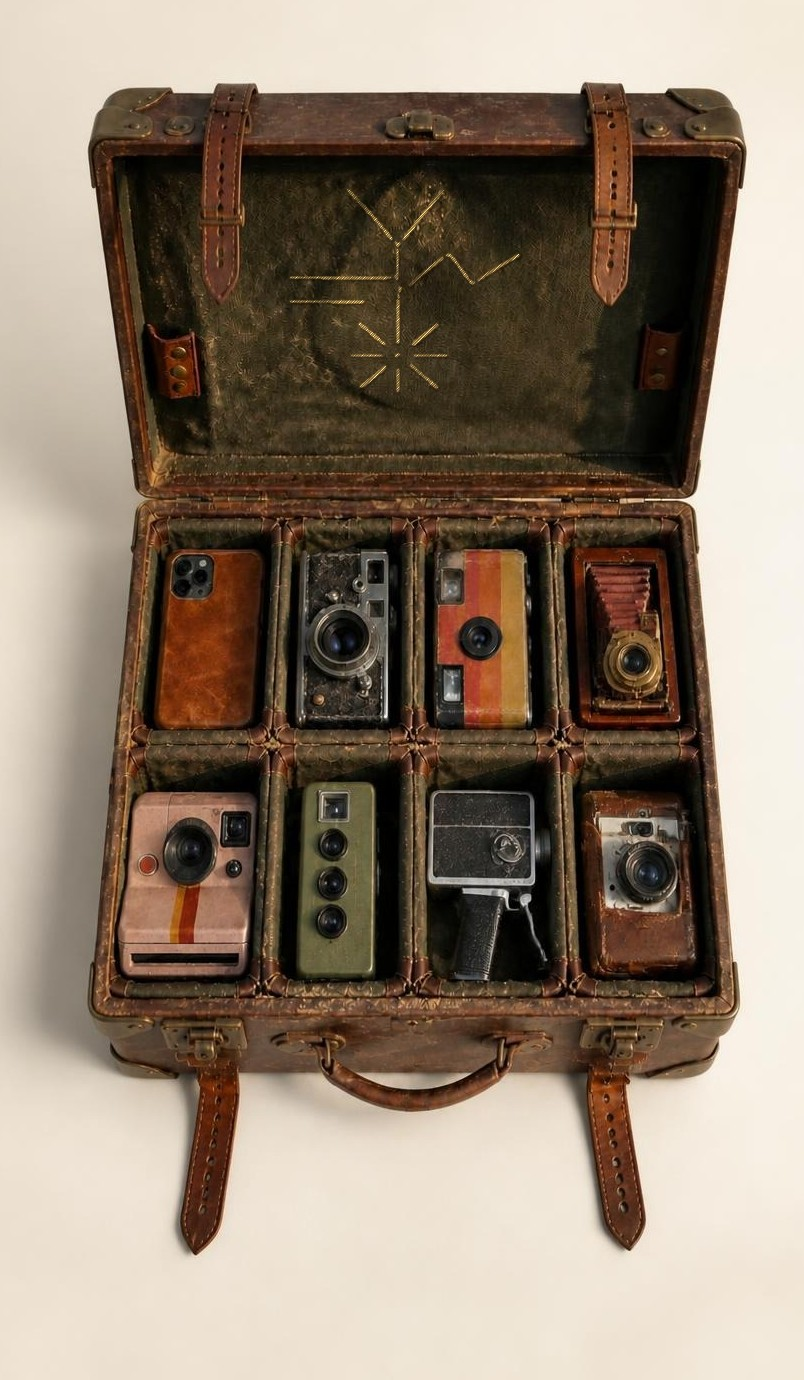
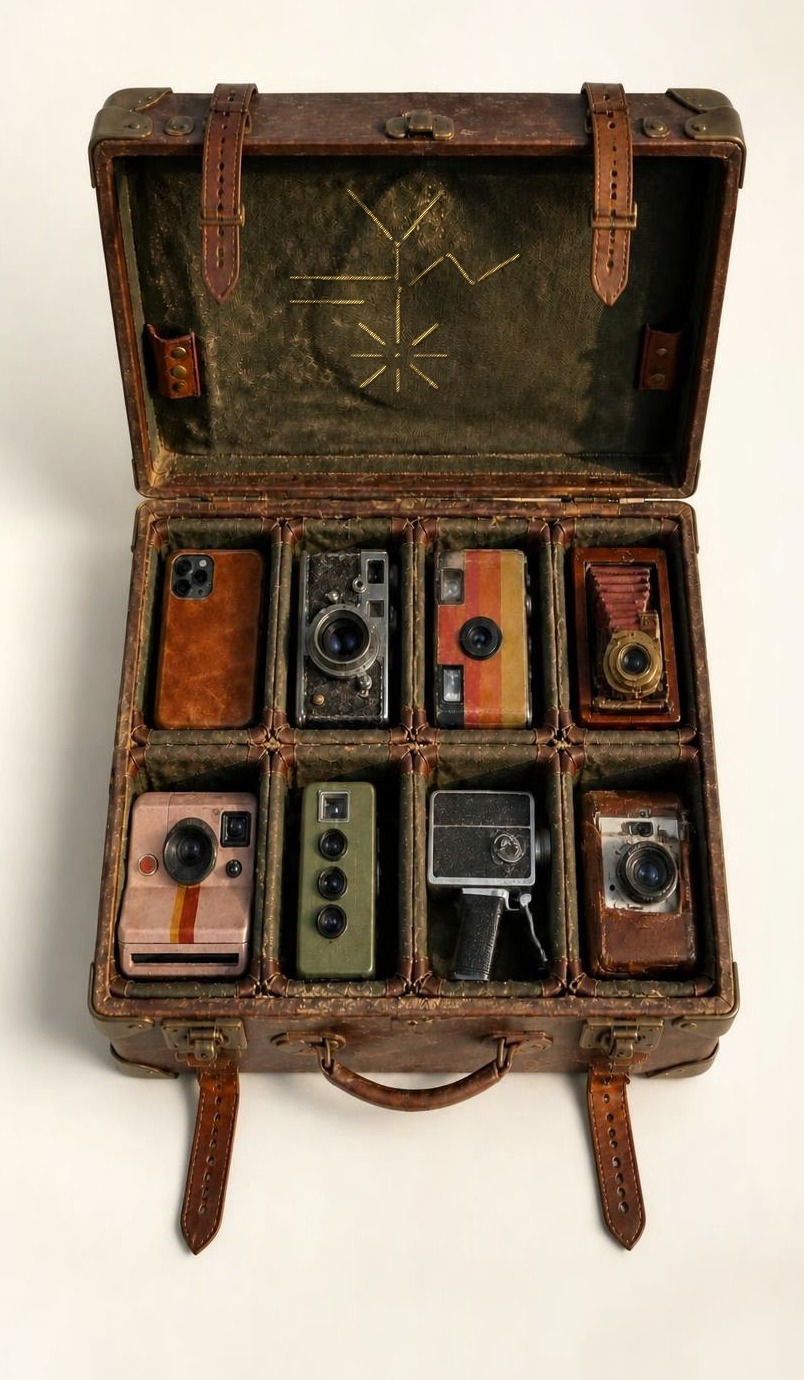
Maleta e carteira: fundo da foto igualado ao fundo do app e bordas que somem, sem cartão
Claude-Session: https://claude.ai/code/session_019kqAkVGodtTPLnZ4JhFLF3

Changed region(s): [[0.0, 0.0, 0.1866, 0.2804], [0.0, 0.3116, 0.0622, 0.6232], [0.0, 0.7478, 0.0622, 1.0]]

diff --git a/app/index.html b/app/index.html
@@ -7,7 +7,7 @@
 <link rel="icon" href="img/icone-192.png">
 <link rel="apple-touch-icon" href="img/icone-192.png">
 <link rel="manifest" href="manifest.webmanifest">
-<script>window.__VERSAO = "10/10 · 11:34";</script>
+<script>window.__VERSAO = "10/10 · 11:35";</script>
 <script src="config.js"></script>
 <script src="shim.js"></script>
 <style>*,*::before,*::after{box-sizing:border-box}html,body{margin:0;height:100%}</style>
@@ -897,7 +897,9 @@ nav.tabs button[aria-current="page"] .ic{background:linear-gradient(180deg,#E2BE
 @keyframes flashcam{from{opacity:.95}to{opacity:0}}
 .diario{margin-top:22px;display:flex;flex-direction:column;gap:10px}
 /* maleta e carteira como fotos de verdade, num cartão com fundo pastel, sem recorte */
-.malafoto.foto,.carteira.foto{border-radius:18px;overflow:hidden;box-shadow:0 10px 24px rgba(60,40,20,.18),0 1px 0 rgba(255,255,255,.6) inset;background:#EADFCD}
+/* o fundo das fotos foi igualado ao fundo do app: sem cartão, sem borda */
+.malafoto.foto,.carteira.foto{border-radius:0;overflow:visible;box-shadow:none;background:none}
+.malafoto.foto .estantefundo,.carteira.foto .cfundo{-webkit-mask-image:linear-gradient(90deg,transparent,#000 9%,#000 91%,transparent),linear-gradient(180deg,transparent,#000 7%,#000 93%,transparent);-webkit-mask-composite:source-in;mask-image:linear-gradient(90deg,transparent,#000 9%,#000 91%,transparent),linear-gradient(180deg,transparent,#000 7%,#000 93%,transparent);mask-composite:intersect}
 .malafoto.foto{aspect-ratio:804/1380;max-width:400px}
 .carteira.foto{aspect-ratio:834/1085;max-width:400px}
 .malafoto.foto .estantefundo,.carteira.foto .cfundo{position:absolute;inset:0;width:100%;height:100%;object-fit:cover;filter:none!important;z-index:0}

diff --git a/app/caravana-do-ceu.html b/app/caravana-do-ceu.html
@@ -883,7 +883,9 @@ nav.tabs button[aria-current="page"] .ic{background:linear-gradient(180deg,#E2BE
 @keyframes flashcam{from{opacity:.95}to{opacity:0}}
 .diario{margin-top:22px;display:flex;flex-direction:column;gap:10px}
 /* maleta e carteira como fotos de verdade, num cartão com fundo pastel, sem recorte */
-.malafoto.foto,.carteira.foto{border-radius:18px;overflow:hidden;box-shadow:0 10px 24px rgba(60,40,20,.18),0 1px 0 rgba(255,255,255,.6) inset;background:#EADFCD}
+/* o fundo das fotos foi igualado ao fundo do app: sem cartão, sem borda */
+.malafoto.foto,.carteira.foto{border-radius:0;overflow:visible;box-shadow:none;background:none}
+.malafoto.foto .estantefundo,.carteira.foto .cfundo{-webkit-mask-image:linear-gradient(90deg,transparent,#000 9%,#000 91%,transparent),linear-gradient(180deg,transparent,#000 7%,#000 93%,transparent);-webkit-mask-composite:source-in;mask-image:linear-gradient(90deg,transparent,#000 9%,#000 91%,transparent),linear-gradient(180deg,transparent,#000 7%,#000 93%,transparent);mask-composite:intersect}
 .malafoto.foto{aspect-ratio:804/1380;max-width:400px}
 .carteira.foto{aspect-ratio:834/1085;max-width:400px}
 .malafoto.foto .estantefundo,.carteira.foto .cfundo{position:absolute;inset:0;width:100%;height:100%;object-fit:cover;filter:none!important;z-index:0}

diff --git a/app/sw.js b/app/sw.js
@@ -1,4 +1,4 @@
-// marca: 5eaf6aae63
+// marca: befc3b8c8b
 // Guarda o app inteiro no celular para abrir mesmo sem sinal (templo, estrada, wi-fi fraco do hotel).
 const CACHE = "caravana-v6", EXTRA = "caravana-ext", MAPA = "caravana-mapa";
 // lista de arquivos gerada pelo tools/gerar-site.py
